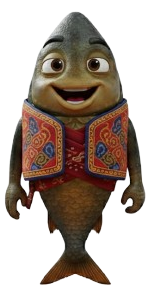
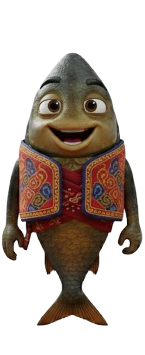
UI: Perfectly balanced tour mascot size and closer speech bubble alignment

diff --git a/public/style.css b/public/style.css
@@ -2710,24 +2710,35 @@ textarea.form-input {
 
 .tour-speech-bubble {
     position: fixed;
-    bottom: 430px;
-    /* Di atas mascot (400px) */
+    bottom: 400px;
+    /* Adjusted to sit above heads of 320px mascot */
     left: 40px;
     background: white;
     color: #01014e;
-    padding: 24px 30px;
+    padding: 22px 28px;
     border-radius: 28px 28px 28px 4px;
     font-size: 1.1rem;
     font-weight: 700;
     max-width: 420px;
-    box-shadow: 0 15px 40px rgba(0, 0, 0, 0.6);
-    z-index: 18000;
+    box-shadow: 0 15px 40px rgba(0, 0, 0, 0.7);
+    z-index: 18005;
     opacity: 0;
     visibility: hidden;
     transform: translateY(20px) scale(0.9);
     transition: all 0.5s cubic-bezier(0.34, 1.56, 0.64, 1);
-    border: 3px solid var(--emerald-green);
+    border: 4px solid var(--emerald-green);
     line-height: 1.6;
+}
+
+.tour-speech-bubble::before {
+    content: '';
+    position: absolute;
+    bottom: -20px;
+    left: 100px;
+    /* Pointing towards the mascot head */
+    border-left: 15px solid transparent;
+    border-right: 15px solid transparent;
+    border-top: 20px solid var(--emerald-green);
 }
 
 .tour-speech-bubble.active {
@@ -2769,12 +2780,13 @@ textarea.form-input {
 
 /* Tour Mode Avatar State */
 #avatar-container.tour-mode {
-    bottom: 20px !important;
-    left: 20px !important;
+    bottom: 10px !important;
+    left: 10px !important;
     right: unset !important;
     top: unset !important;
-    width: 320px !important;
-    height: 400px !important;
+    width: 350px !important;
+    /* Balanced size to avoid cropping */
+    height: 480px !important;
     transform: scale(1) !important;
     transition: all 1s cubic-bezier(0.19, 1, 0.22, 1) !important;
     background: transparent !important;
@@ -2800,17 +2812,19 @@ textarea.form-input {
     display: flex !important;
     align-items: center !important;
     justify-content: center !important;
+    position: relative !important;
 }
 
 #avatar-container.tour-mode .avatar-glow-ring {
-    width: 300px !important;
-    height: 300px !important;
-    background: radial-gradient(circle, rgba(16, 185, 129, 0.3) 0%, transparent 70%);
+    width: 350px !important;
+    height: 350px !important;
+    background: radial-gradient(circle, rgba(16, 185, 129, 0.35) 0%, transparent 75%);
 }
 
 #avatar-container.tour-mode .avatar-2d-img {
-    width: 250px !important;
+    width: 320px !important;
+    /* Optimal size for visibility and impact */
     height: auto !important;
     object-fit: contain !important;
-    filter: drop-shadow(0 0 30px rgba(16, 185, 129, 0.3));
+    filter: drop-shadow(0 0 40px rgba(16, 185, 129, 0.4));
 }
